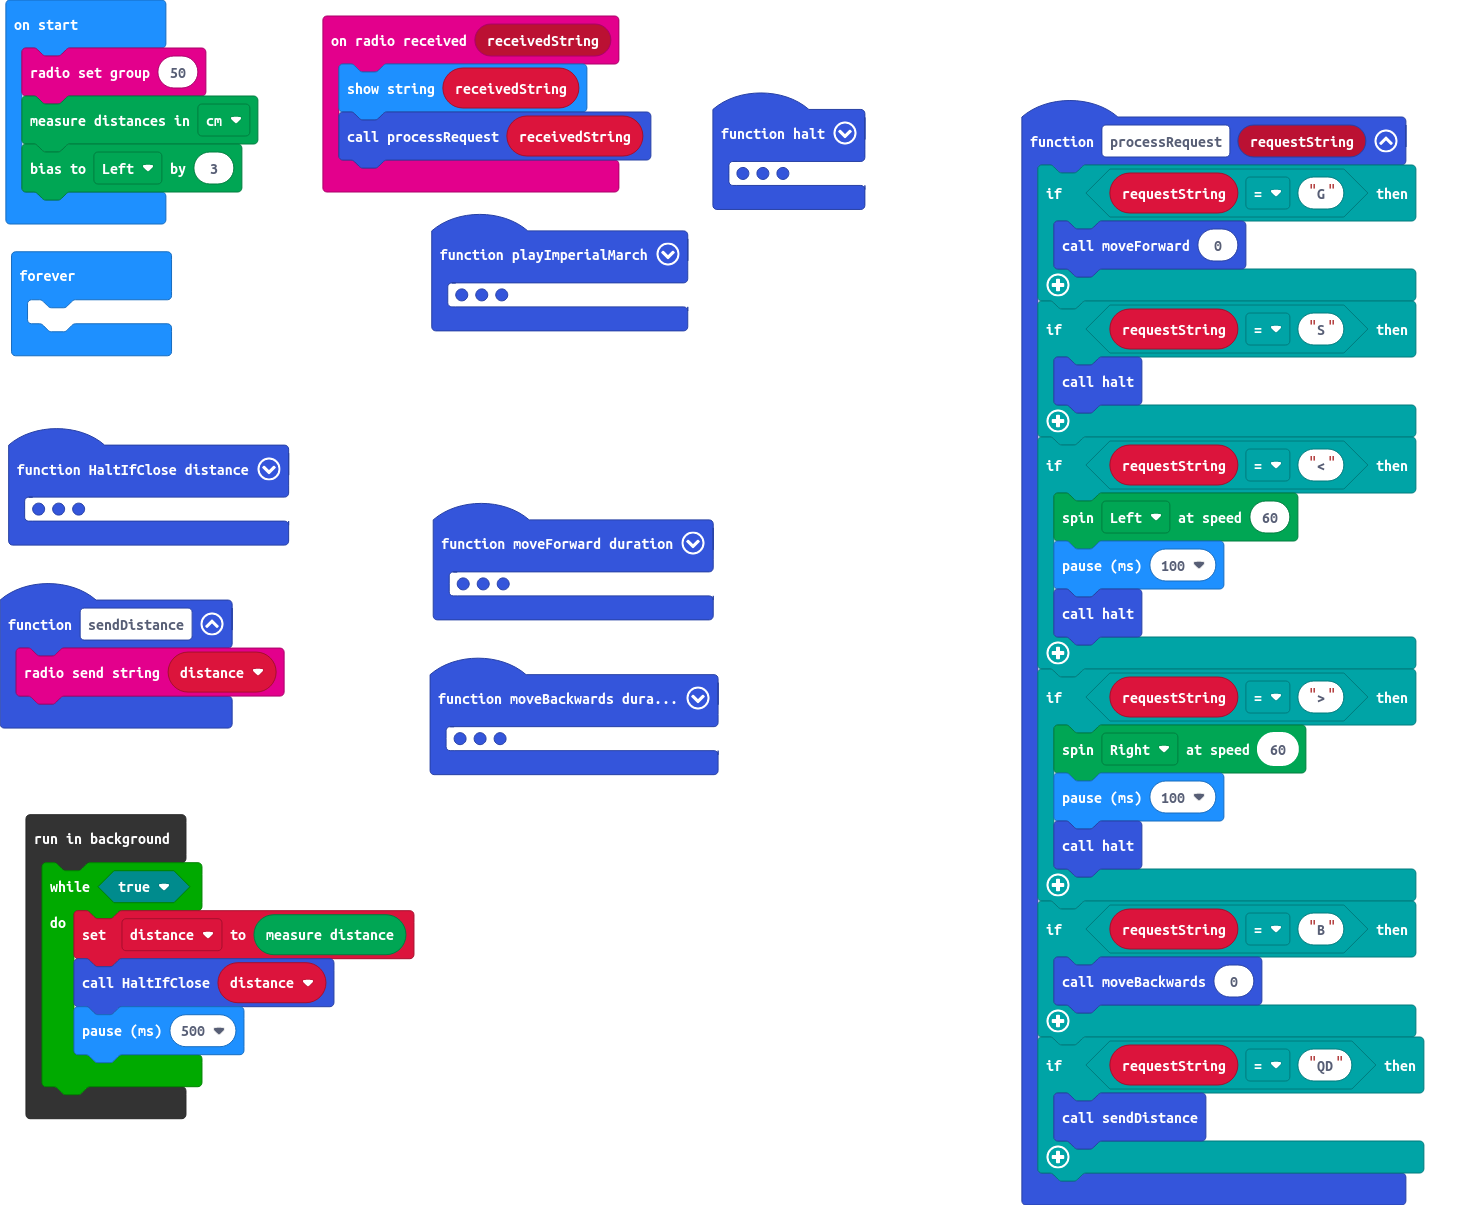
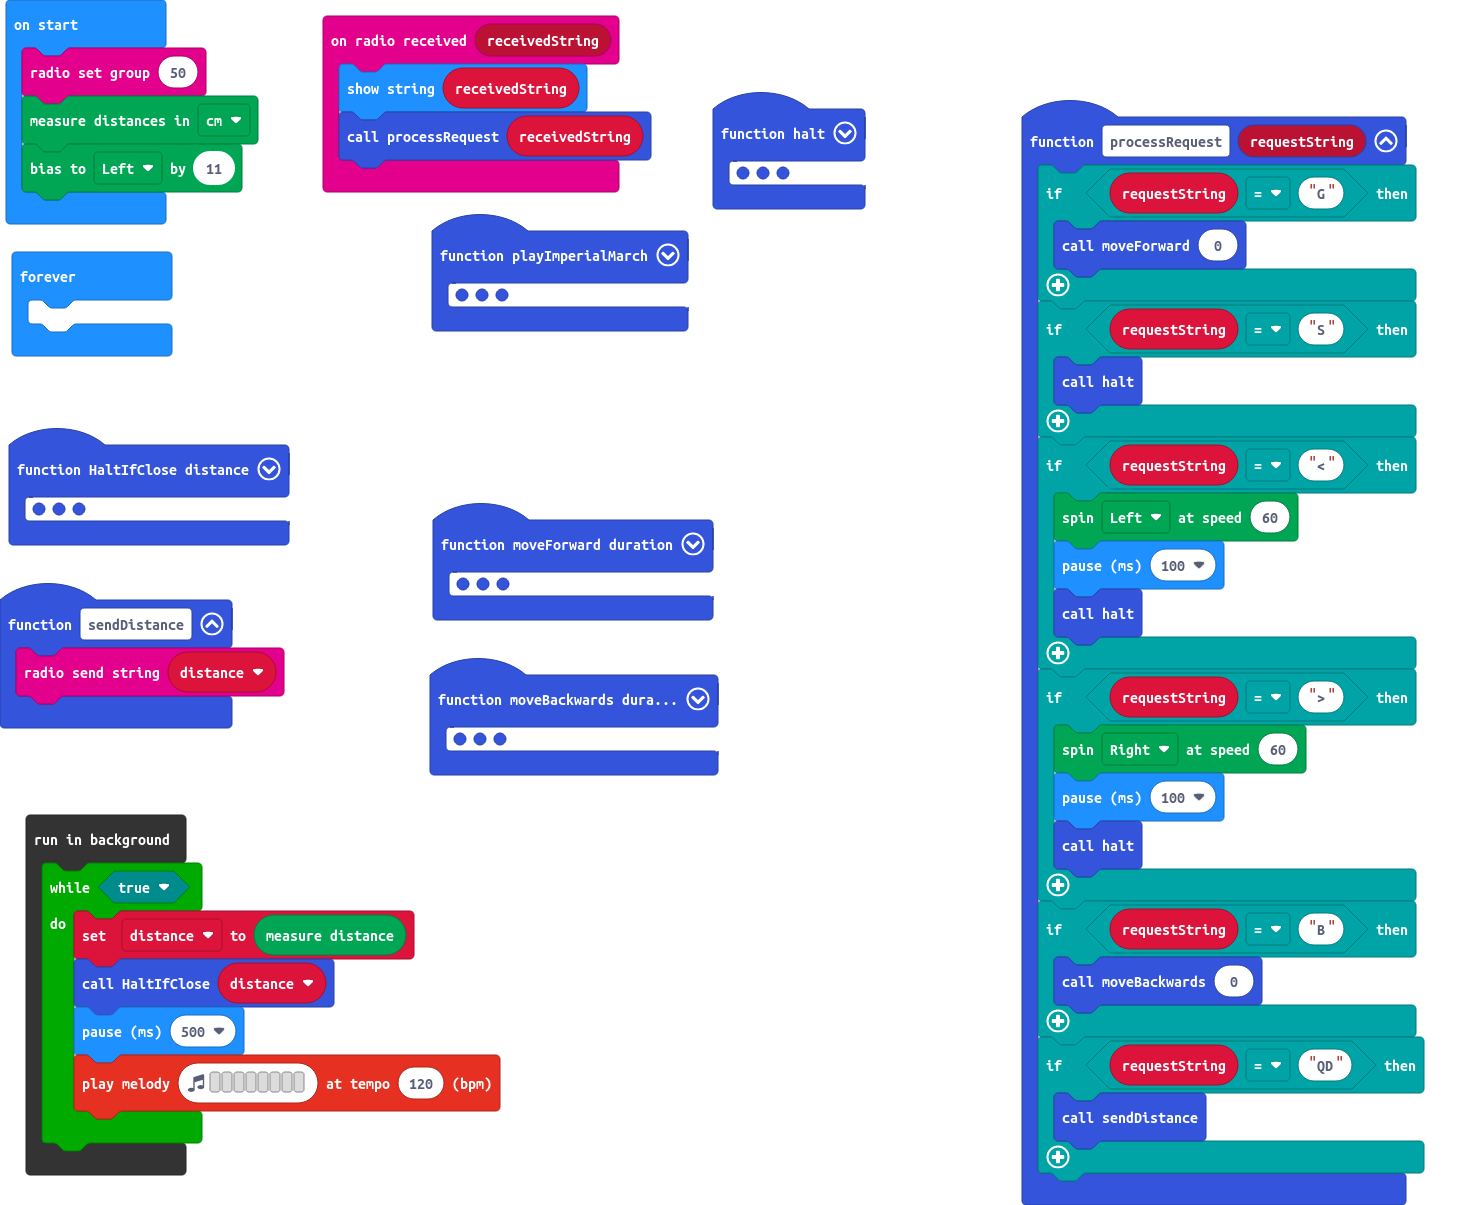
Updated the direction compesention

diff --git a/main.ts b/main.ts
@@ -83,7 +83,7 @@ let moveMotorZIP: Kitronik_Move_Motor.MoveMotorZIP = null
 let inMotion = 0
 radio.setGroup(50)
 Kitronik_Move_Motor.setUltrasonicUnits(Kitronik_Move_Motor.Units.Centimeters)
-Kitronik_Move_Motor.motorBalance(Kitronik_Move_Motor.SpinDirections.Left, 3)
+Kitronik_Move_Motor.motorBalance(Kitronik_Move_Motor.SpinDirections.Left, 11)
 basic.forever(function () {
 	
 })
@@ -92,5 +92,6 @@ control.inBackground(function () {
         distance = Kitronik_Move_Motor.measure()
         HaltIfClose(distance)
         basic.pause(500)
+        music.playMelody("- - - - - - - - ", 120)
     }
 })
